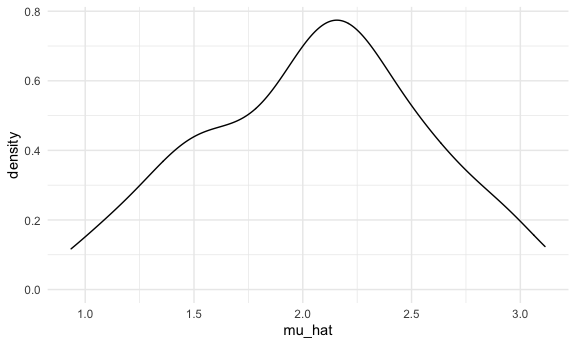
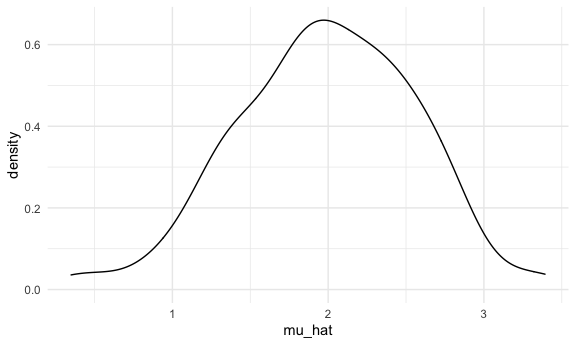
we did simulation!

diff --git a/simulation.md b/simulation.md
@@ -50,6 +50,8 @@ options(
 
 scale_colour_discrete = scale_colour_viridis_d
 scale_fill_discrete = scale_fill_viridis_d
+
+set.seed(1)
 ```
 
 ## Let’s simulate something
@@ -80,7 +82,7 @@ sim_mean_sd(30)
     ## # A tibble: 1 x 2
     ##   mu_hat sigma_hat
     ##    <dbl>     <dbl>
-    ## 1   1.80      2.35
+    ## 1   2.25      2.77
 
 ## Let’s simulate a lot
 
@@ -99,16 +101,16 @@ bind_rows(output)
     ## # A tibble: 100 x 2
     ##    mu_hat sigma_hat
     ##     <dbl>     <dbl>
-    ##  1   1.66      2.33
-    ##  2   1.81      2.76
-    ##  3   1.55      3.23
-    ##  4   2.40      2.66
-    ##  5   2.18      2.79
-    ##  6   1.72      3.05
-    ##  7   2.26      2.51
-    ##  8   1.76      2.66
-    ##  9   2.34      2.80
-    ## 10   2.77      2.87
+    ##  1   2.40      2.39
+    ##  2   2.33      2.88
+    ##  3   2.34      2.65
+    ##  4   1.01      2.77
+    ##  5   2.71      3.17
+    ##  6   2.20      3.25
+    ##  7   1.29      3.04
+    ##  8   2.07      2.79
+    ##  9   2.41      3.09
+    ## 10   2.65      2.84
     ## # … with 90 more rows
 
 Let’s use a loop function:
@@ -137,7 +139,7 @@ sim_result %>% summarize(
     ## # A tibble: 1 x 2
     ##   avg_samp_mean sd_samp_mean
     ##           <dbl>        <dbl>
-    ## 1          2.05        0.512
+    ## 1          1.99        0.567
 
 ``` r
 sim_result %>% 
@@ -145,3 +147,67 @@ sim_result %>%
 ```
 
 <img src="simulation_files/figure-gfm/unnamed-chunk-6-2.png" width="90%" />
+
+## let’s try other sample sizes
+
+``` r
+n_list = 
+  list(
+    "n_30"  = 30, 
+    "n_60"  = 60, 
+    "n_120" = 120, 
+    "n_240" = 240)
+
+output = vector("list", length = 4)
+
+for (i in 1:4) {
+  output[[i]] = rerun(100, sim_mean_sd(n_list[[i]])) %>% 
+  bind_rows()
+}
+```
+
+``` r
+#'cache ='  means run the code for one time and use the saved result everytime you knit. But very easy to break.
+sim_result = tibble(
+  sample_size = c(30, 60, 120, 240),
+  ) %>% 
+  mutate(
+    output_lists = map(.x = sample_size, ~rerun(100, sim_mean_sd(.x))),
+    estimate_df = map(output_lists, bind_rows)
+  ) %>% 
+  select(-output_lists) %>% 
+  unnest(estimate_df)
+```
+
+Do some data frame things
+
+``` r
+sim_result %>% 
+  mutate(
+    sample_size = str_c("n = ", sample_size),
+    sample_size = fct_inorder(sample_size)
+  ) %>% 
+  ggplot(aes(x = sample_size, y = mu_hat)) +
+  geom_violin()
+```
+
+<img src="simulation_files/figure-gfm/unnamed-chunk-9-1.png" width="90%" />
+
+``` r
+sim_result %>% 
+  group_by(sample_size) %>% 
+  summarize(
+    avg_samp_mean = mean(mu_hat),
+    sd_samp_mean = sd(mu_hat)
+  )
+```
+
+    ## `summarise()` ungrouping output (override with `.groups` argument)
+
+    ## # A tibble: 4 x 3
+    ##   sample_size avg_samp_mean sd_samp_mean
+    ##         <dbl>         <dbl>        <dbl>
+    ## 1          30          1.97        0.595
+    ## 2          60          1.98        0.379
+    ## 3         120          1.98        0.266
+    ## 4         240          2.01        0.165
